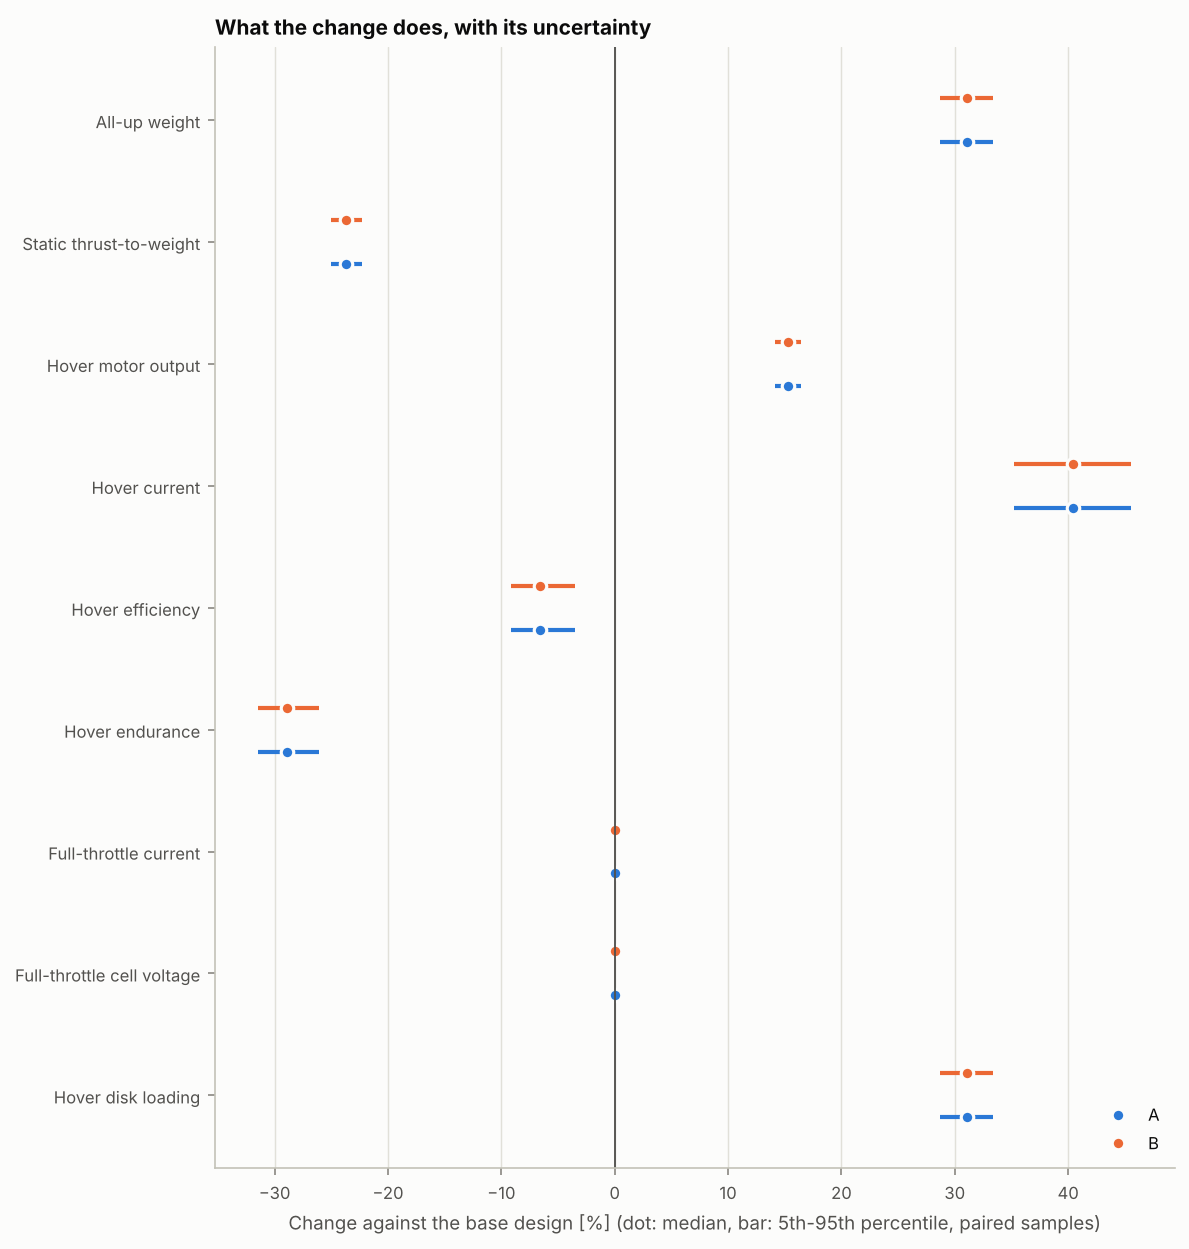
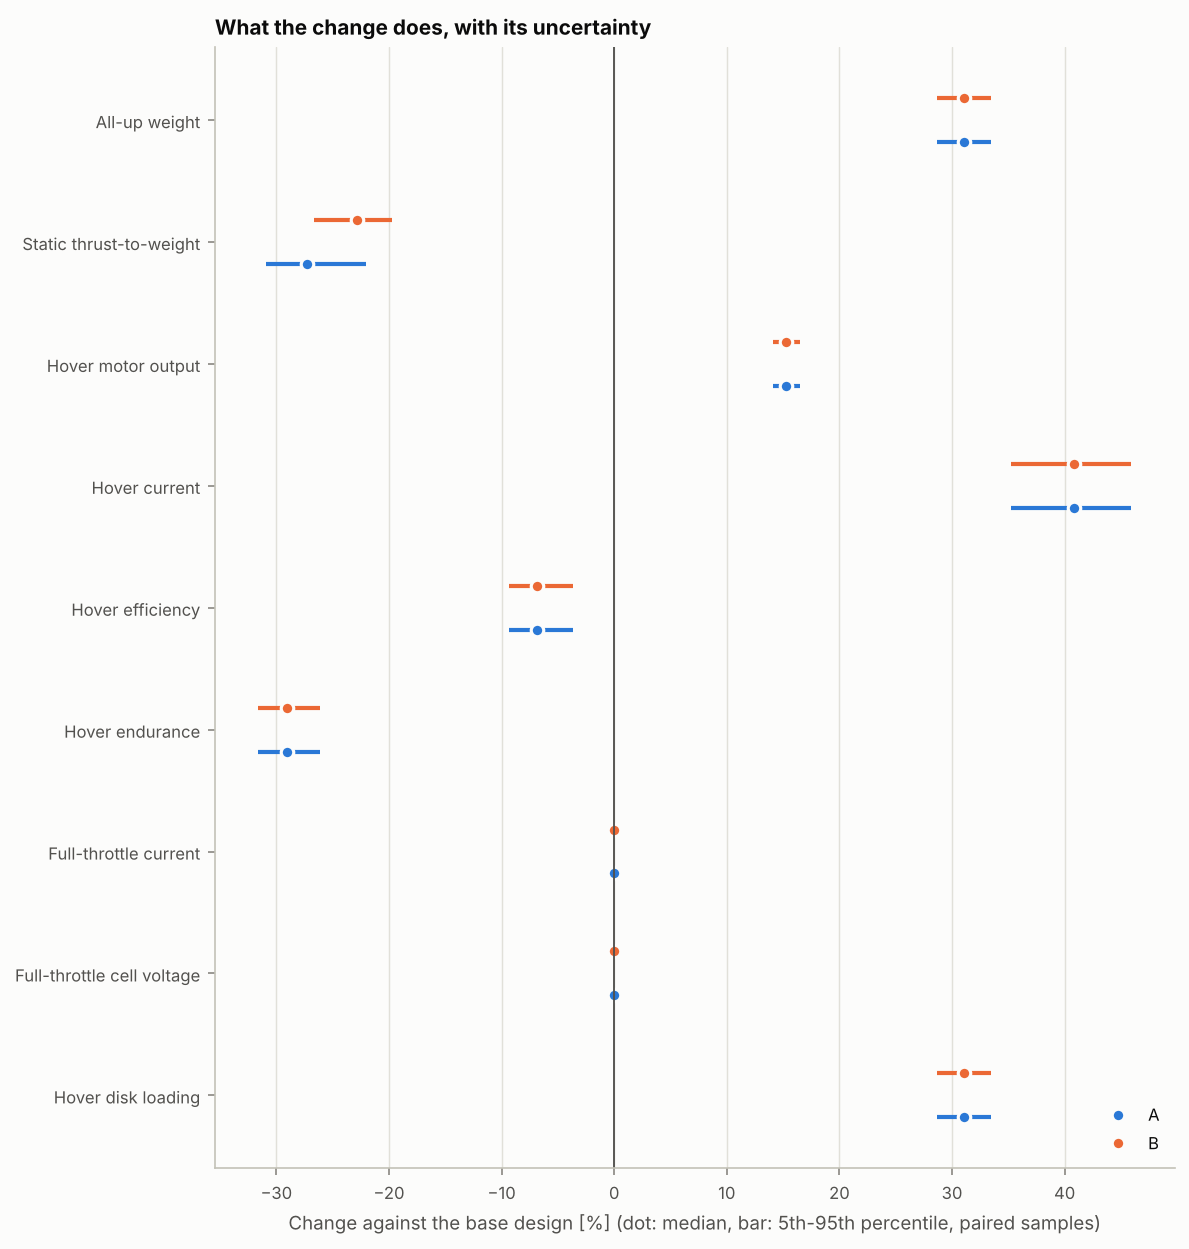
Regenerate the action-camera comparison after the stage 7 fixes
Interim: the comparison will be regenerated once the open review
findings are addressed.

Claude-Session: https://claude.ai/code/session_01Gr7RFANGNg9tgHViymiLYv

diff --git a/reports/compare-actioncam/report.md b/reports/compare-actioncam/report.md
@@ -1,87 +1,120 @@
 # 設計迭代比較報告
 
-> 由 `fpvsim compare` 自動產生。所有版本用相同的設定分析：同一個隨機種子、相同的蒙地卡羅樣本數、相同的飛控設定與飛行腳本。蒙地卡羅是**成對**的：第 i 組樣本中，各版本共有的參數取相同的值，所以版本間的差異只反映真正改變的部分。
+> 由 `fpvsim compare` 自動產生。所有版本用相同的設定分析：同一個隨機種子、相同的蒙地卡羅樣本數、同一份規格、相同的飛控設定與飛行腳本。蒙地卡羅是**成對**的：在第 i 組樣本中，各版本共有的零件（同一個零件檔、同樣數值的參數）取相同的值，所以差異是逐組直接算出來的，不受兩次獨立抽樣的雜訊干擾。但共有零件仍會影響變更的**大小**（例如槳的效率決定了多 165 g 要多耗多少電），所以差異的區間也包含它們的不確定度，見第 3 節的敏感度分析。
 
-| 代號 | 版本 | 設計檔 | 相對上一版的變更 | 輸入檔雜湊 |
+| 代號 | 版本 | 設計檔 | 相對基準的變更（演進順序） | 輸入檔雜湊 |
 |---|---|---|---|---|
-| base | 參考機：5 吋 6S freestyle（通用零件） | `data/builds/ref-5in-6s-freestyle.toml` | 基準設計 | `17c45a88524a` |
-| A | 版本 A：運動相機綁在電池前端 | `data/builds/ref-5in-6s-freestyle-actioncam-a.toml` | 加掛全尺寸運動相機（綁在電池前端），電池位置不變 | `47a12fa29d5b` |
-| B | 版本 B：相機裝在上板前端、電池後移 | `data/builds/ref-5in-6s-freestyle-actioncam-b.toml` | 加掛全尺寸運動相機（上板前端），電池後移 20 mm | `6c4423ae1aa9` |
+| base | 參考機：5 吋 6S freestyle（通用零件） | `data/builds/ref-5in-6s-freestyle.toml` | 基準設計 | `d19981aac9bd` |
+| A | 版本 A：運動相機綁在電池前端 | `data/builds/ref-5in-6s-freestyle-actioncam-a.toml` | 加掛全尺寸運動相機（綁在電池前端），電池位置不變 | `63ed371dfdc4` |
+| B | 版本 B：相機裝在上板前端、電池後移 | `data/builds/ref-5in-6s-freestyle-actioncam-b.toml` | 加掛全尺寸運動相機（上板前端），電池後移 20 mm | `2ceaf83a31c3` |
 
 | 項目 | 內容 |
 |---|---|
-| 飛控設定 | 5 吋 Acro 基準設定（`acro-5in-baseline`） |
+| 規格 | 5 吋 6S freestyle 設計規格（範例）（`freestyle-5in-6s`），所有版本相同 |
+| 飛控設定 | 5 吋 Acro 基準設定（`acro-5in-baseline`），所有版本相同 |
 | 蒙地卡羅 | 每個版本 1000 組成對樣本，隨機種子 1 |
-| 飛行腳本 | `freestyle`：綜合飛行：10 m/s 前飛、衝刺、滾轉翻、後空翻、原地自轉、收油下墜 |
-| 程式版本 | fpvsim 0.1.0，git `08e4ccd4cdf4` |
-| 產生時間 (UTC) | 2026-10-07 21:45 |
+| 飛行腳本 | `freestyle`：綜合飛行：10 m/s 前飛、滾轉翻、後空翻、原地自轉、衝刺、收油下墜 |
+| 程式版本 | fpvsim 0.1.0，git `ee299fd072af（工作區有未提交的修改）` |
+| 產生時間 (UTC) | 2026-10-07 23:44 |
 
 ## 摘要
 
-- **版本 A（版本 A：運動相機綁在電池前端）**：重量 +165 g（+31.0%），懸停續航 -28.9%（90% 區間 -31.4% 至 -26.1%），推重比 -23.7%，重心偏移 5.7 mm。新增不符合的規格：R1、R6。
-- **版本 B（版本 B：相機裝在上板前端、電池後移）**：重量 +165 g（+31.0%），懸停續航 -28.9%（90% 區間 -31.4% 至 -26.1%），推重比 -23.7%，重心偏移 1.9 mm。新增不符合的規格：R1。
-- **在加改的版本中，版本 B 符合的規格最多**（5 / 6 項）。
-- 所有加改版本都不符合 R1（全備重量 ≤ 600 g）。這條規格是為不掛運動相機的用途訂的；要掛相機，應先決定是放寬規格，還是另訂一份「掛相機」的規格，這是產品決策，不是工程問題。
-- **控制：** 用相同的基準增益，滾轉超調由基準的 17.3% 變為 版本 A 13.4%、版本 B 13.2%。轉動慣量變大，同樣的增益等於較低的迴路增益；各版本重新調參的建議見第 7 節。
+- **A（版本 A：運動相機綁在電池前端）**：全備重量 +165 g（+31.0%），懸停續航 -29.1%（90% 區間 -31.6% 至 -26.1%），推重比 -27.3%，重心偏移 5.7 mm。新增不符合的規格：R1、R6。有風險：R2。
+- **B（版本 B：相機裝在上板前端、電池後移）**：全備重量 +165 g（+31.0%），懸停續航 -29.1%（90% 區間 -31.6% 至 -26.1%），推重比 -22.9%，重心偏移 1.0 mm。新增不符合的規格：R1。有風險：R2。
+- 在變更後的版本中，**B 符合的規格最多**（4 / 6 項）。
+- 所有變更後的版本都不符合 R1（全備重量）。若這條規格是為變更前的用途訂的，應先決定是放寬它，還是為新用途另訂規格；這是產品決策，不是工程問題。
+- **控制：** 用相同的基準增益，滾轉超調在基準為 19.9%，A 11.8%、B 14.4%。轉動慣量變大，同樣的增益等於較低的迴路增益，所以超調變小。各版本自己的調參建議見第 7 節。
 
 ## 1. 設計變更
 
-**版本 A** 相對基準設計：
+**A** 相對基準設計：
 
 | 類型 | 項目 | 變更前 | 變更後 |
 |---|---|---|---|
-| 新增 | `action_camera` | — | 153 g @ (30.0, 0.0, -98.5) mm |
-| 新增 | `camera_mount` | — | 12 g @ (30.0, 0.0, -69.0) mm |
+| 新增零件 | `action_camera` | — | 153 g @ (30.0, 0.0, -98.5) mm |
+| 新增零件 | `camera_mount` | — | 12 g @ (30.0, 0.0, -69.0) mm |
 
-**版本 B** 相對基準設計：
+**B** 相對基準設計：
 
 | 類型 | 項目 | 變更前 | 變更後 |
 |---|---|---|---|
-| 新增 | `action_camera` | — | 153 g @ (40.0, 0.0, -60.5) mm |
-| 新增 | `camera_mount` | — | 12 g @ (40.0, 0.0, -31.0) mm |
+| 新增零件 | `action_camera` | — | 153 g @ (36.0, 0.0, -60.5) mm |
+| 新增零件 | `camera_mount` | — | 12 g @ (36.0, 0.0, -31.0) mm |
 | 移動 | `battery` | (0.0, 0.0, -46.0) mm | (-20.0, 0.0, -46.0) mm |
 
 ## 2. 規格符合度
 
-每格為符合機率（判定）。所有版本都對照同一份規格：5 吋 6S freestyle 設計規格（範例）。
+每格為符合機率（判定）。判定：≥ 95% 符合，50–95% 有風險，< 50% 不符合；與門檻相差不到兩倍蒙地卡羅標準誤差時標為「臨界」，換一個隨機種子可能落在另一邊。零件的安裝位置有標示不確定度時（例如電池與相機的 `position_u`），重心相關的機率已包含它。
 
 | 編號 | 需求 | base | A | B |
 |---|---|---|---|---|
 | R1 | 全備重量 | > 99.7%（符合） | < 0.3%（不符合） | < 0.3%（不符合） |
-| R2 | 靜態推重比（滿電、全油門） | 99.9% ± 0.1%（符合） | 95.0% ± 0.7%（符合） | 95.0% ± 0.7%（符合） |
+| R2 | 靜態推重比（滿電、全油門、含重心配平） | > 99.7%（符合） | 86.6% ± 1.1%（有風險） | 93.6% ± 0.8%（有風險（臨界）） |
 | R3 | 懸停油門（馬達輸出，滿電） | > 99.7%（符合） | > 99.7%（符合） | > 99.7%（符合） |
 | R4 | 懸停續航 | > 99.7%（符合） | > 99.7%（符合） | > 99.7%（符合） |
-| R5 | 全油門槳尖馬赫數 | 99.3% ± 0.3%（符合） | 99.3% ± 0.3%（符合） | 99.3% ± 0.3%（符合） |
-| R6 | 重心與推力中心的水平偏移 | > 99.7%（符合） | 3.8% ± 0.6%（不符合） | > 99.7%（符合） |
+| R5 | 全油門槳尖馬赫數 | 99.2% ± 0.3%（符合） | 99.2% ± 0.3%（符合） | 99.2% ± 0.3%（符合） |
+| R6 | 重心與推力中心的水平偏移 | 97.3% ± 0.5%（符合） | 32.0% ± 1.5%（不符合） | 99.7% ± 0.2%（符合） |
 
 ## 3. 性能對照
 
-標稱值為各版本所有參數取標稱值的結果；差異欄是**成對**樣本的差（版本減基準）的中位數與 90% 區間。
+標稱值為各版本所有參數取標稱值的結果。差異欄是**成對**樣本的差（版本減基準）：中位數與 90% 區間；百分比指標的差以百分點表示。下圖是同樣的差異換算成相對變化。
 
 | 指標 | base 標稱值 | A 標稱值 | B 標稱值 | A − base（P5 – P95） | B − base（P5 – P95） |
 |---|---|---|---|---|---|
-| 全備重量 | 532 g | 697 g | 697 g | +165 g（+154 – +176） | +165 g（+154 – +176） |
-| 重心與推力中心的水平偏移 | 1.8 mm | 5.7 mm | 1.9 mm | +3.9 mm（+2.7 – +5.0） | +0.1 mm（-1.2 – +1.2） |
-| 靜態推重比（滿電、全油門） | 13.52 | 10.32 | 10.32 | -3.21（-4.11 – -2.46） | -3.21（-4.11 – -2.46） |
-| 懸停油門（馬達輸出，滿電） | 20.2% | 23.3% | 23.3% | +3.1%（+2.7 – +3.5） | +3.1%（+2.7 – +3.5） |
-| 懸停總電流（滿電） | 3.24 A | 4.55 A | 4.55 A | +1.31 A（+0.91 – +1.86） | +1.31 A（+0.91 – +1.86） |
-| 懸停效率 | 6.54 gf/W | 6.11 gf/W | 6.11 gf/W | -0.42 gf/W（-0.63 – -0.23） | -0.42 gf/W（-0.63 – -0.23） |
-| 懸停續航 | 17.92 min | 12.73 min | 12.73 min | -5.16 min（-6.99 – -3.75） | -5.16 min（-6.99 – -3.75） |
+| 全備重量 | 532 g | 697 g | 697 g | +165 g（+153 – +175） | +165 g（+153 – +175） |
+| 重心與推力中心的水平偏移（大小；方向見第 4 節） | 1.8 mm | 5.7 mm | 1.0 mm | +3.8 mm（-1.2 – +7.5） | -0.7 mm（-3.4 – +2.2） |
+| 靜態推重比（滿電、全油門、含重心配平） | 13.20 | 9.62 | 10.18 | -3.48（-4.96 – -2.49） | -2.96（-4.25 – -2.18） |
+| 懸停油門（馬達輸出，滿電） | 20.2% | 23.3% | 23.3% | +3.1 個百分點（+2.7 – +3.5） | +3.1 個百分點（+2.7 – +3.5） |
+| 懸停總電流（滿電） | 3.24 A | 4.55 A | 4.55 A | +1.30 A（+0.89 – +1.89） | +1.30 A（+0.89 – +1.89） |
+| 懸停效率 | 6.54 gf/W | 6.11 gf/W | 6.11 gf/W | -0.44 gf/W（-0.64 – -0.24） | -0.44 gf/W（-0.64 – -0.24） |
+| 懸停續航 | 17.92 min | 12.73 min | 12.73 min | -5.15 min（-7.24 – -3.75） | -5.15 min（-7.24 – -3.75） |
 | 全油門總電流（滿電） | 161.7 A | 161.7 A | 161.7 A | +0.0 A（+0.0 – +0.0） | +0.0 A（+0.0 – +0.0） |
 | 全油門單芯電壓（滿電） | 3.49 V | 3.49 V | 3.49 V | +0.00 V（+0.00 – +0.00） | +0.00 V（+0.00 – +0.00） |
-| 懸停槳盤負載 | 98.9 Pa | 129.6 Pa | 129.6 Pa | +30.8 Pa（+28.6 – +32.7） | +30.8 Pa（+28.6 – +32.7） |
+| 懸停槳盤負載 | 98.9 Pa | 129.6 Pa | 129.6 Pa | +30.7 Pa（+28.5 – +32.6） | +30.7 Pa（+28.5 – +32.6） |
 
 ![Paired differences](deltas.png)
 
+### 差異的敏感度
+
+每次只把一個參數移動 ±1σ，看差異（版本減基準）改變多少。共有參數在兩個版本同時移動，和成對抽樣一致。列出對續航差與推重比差影響最大的參數：
+
+**A**：
+
+| 差異 | 參數 | 屬於 | 對差異的影響 (±1σ) |
+|---|---|---|---|
+| 懸停續航 | `prop.ct_scale` | 共有 | ±0.54 min |
+| 懸停續航 | `prop.cp_scale` | 共有 | ±0.48 min |
+| 懸停續航 | `motor.i0_speed_fraction` | 共有 | ±0.35 min |
+| 懸停續航 | `motor.i0_ref` | 共有 | ±0.34 min |
+| 靜態推重比（滿電、全油門、含重心配平） | `battery.offset_x` | 共有 | ±0.40 |
+| 靜態推重比（滿電、全油門、含重心配平） | `prop.ct_scale` | 共有 | ±0.36 |
+| 靜態推重比（滿電、全油門、含重心配平） | `battery.r0_cell` | 共有 | ±0.26 |
+| 靜態推重比（滿電、全油門、含重心配平） | `prop.cp_scale` | 共有 | ±0.25 |
+
+**B**：
+
+| 差異 | 參數 | 屬於 | 對差異的影響 (±1σ) |
+|---|---|---|---|
+| 懸停續航 | `prop.ct_scale` | 共有 | ±0.54 min |
+| 懸停續航 | `prop.cp_scale` | 共有 | ±0.48 min |
+| 懸停續航 | `motor.i0_speed_fraction` | 共有 | ±0.35 min |
+| 懸停續航 | `motor.i0_ref` | 共有 | ±0.34 min |
+| 靜態推重比（滿電、全油門、含重心配平） | `battery.offset_x` | 共有 | ±0.38 |
+| 靜態推重比（滿電、全油門、含重心配平） | `prop.ct_scale` | 共有 | ±0.30 |
+| 靜態推重比（滿電、全油門、含重心配平） | `battery.r0_cell` | 共有 | ±0.22 |
+| 靜態推重比（滿電、全油門、含重心配平） | `prop.cp_scale` | 共有 | ±0.21 |
+
 ## 4. 質量、重心與慣性
 
-| 版本 | 全備重量 | 重心偏移（前後 / 左右） | 重心高於槳平面 | Ixx / Iyy / Izz (g·m²) | 阻力面積 x / y / z (cm²) |
-|---|---|---|---|---|---|
-| base | 532 g | -1.8 / +0.1 mm | +0.1 mm | 1.372 / 1.564 / 2.450 | 60 / 80 / 180 |
-| A | 697 g | +5.7 / +0.1 mm | +17.2 mm | 2.141 / 2.409 / 2.662 | 93 / 96 / 205 |
-| B | 697 g | +1.9 / +0.1 mm | +8.2 mm | 1.631 / 2.121 / 2.884 | 93 / 96 / 205 |
+| 版本 | 全備重量 | 重心偏移（前 + / 右 +） | 重心高於槳平面 | Ixx / Iyy / Izz (g·m²) | Ixz (g·m²) | 阻力面積 x / y / z (cm²) |
+|---|---|---|---|---|---|---|
+| base | 532 g | -1.8 / +0.1 mm | +0.1 mm | 1.372 / 1.564 / 2.450 | +0.009 | 60 / 80 / 180 |
+| A | 697 g | +5.7 / +0.1 mm | +17.2 mm | 2.141 / 2.409 / 2.662 | +0.298 | 93 / 96 / 205 |
+| B | 697 g | +1.0 / +0.1 mm | +8.2 mm | 1.629 / 2.072 / 2.833 | +0.113 | 93 / 96 / 205 |
 
-重心高於槳平面越多，前飛時槳盤阻力造成的抬頭力矩越大，飛控需要更多修正。
+- 重心高於槳平面時，前飛的槳盤阻力作用在重心下方、指向後方，會產生**低頭**力矩，傾向加大前傾；零件自己的阻力（例如相機）作用在零件位置，裝得越高，前飛時的抬頭力矩越大。兩者都由飛控修正，且都已包含在飛行模擬中。
+- Ixz 是滾轉與偏航之間的慣性積（張量形式），不為零時兩軸的運動會互相耦合；裝在高處且偏前的零件會讓它變大。
+- 槳葉間隙檢查通過：沒有零件位於槳盤範圍內且離槳平面不到 10 mm。
 
 ![Side views](side_views.png)
 
@@ -93,54 +126,61 @@
 | A | 12.73 min | 達到保留電量 | 4.55 A | 23.3% |
 | B | 12.73 min | 達到保留電量 | 4.55 A | 23.3% |
 
+懸停續航只取決於重量與動力系統，與重心位置無關，所以重量相同的版本續航相同。
+
 ![Endurance](endurance.png)
 
 ## 6. 飛行測試對照
 
-相同的飛控設定（基準增益）、相同的飛行腳本與隨機種子。
+相同的飛控設定（基準增益）、相同的飛行腳本與隨機種子。**這是每個版本一次、所有參數取標稱值的飛行，沒有不確定度。**阻力面積、槳盤阻力係數、ESC 電流限制與振動等參數只影響這一節；它們的不確定度還沒有傳遞到飛行結果。
 
 | 項目 | base | A | B |
 |---|---|---|---|
 | 前飛段末速度 | 9.4 m/s | 9.5 m/s | 9.5 m/s |
 | 前飛段末傾角 | 26.1 ° | 24.1 ° | 24.2 ° |
-| 衝刺 2 秒內爬升高度 | 50.7 m | 41.5 m | 42.4 m |
-| 最大爬升速度 | 42.5 m/s | 34.2 m/s | 35.1 m/s |
-| 滾轉翻掉高度 | 0.00 m | 0.00 m | 0.00 m |
-| 後空翻掉高度 | 5.10 m | 7.02 m | 7.11 m |
-| 原地自轉平均角速度 | 605 deg/s | 604 deg/s | 605 deg/s |
-| 最低單芯電壓 | 3.27 V | 3.25 V | 3.23 V |
-| 最大電流 | 208 A | 213 A | 216 A |
-| 用電量 | 52 mAh | 57 mAh | 59 mAh |
-| 滾轉追蹤誤差 (RMS) | 38.5 deg/s | 41.6 deg/s | 39.1 deg/s |
-| 俯仰追蹤誤差 (RMS) | 39.8 deg/s | 45.5 deg/s | 44.1 deg/s |
-| 混控飽和時間 | 0.9% | 1.0% | 0.9% |
+| 滾轉翻掉高度 | 2.56 m | 2.74 m | 2.84 m |
+| 後空翻掉高度 | 1.77 m | 1.64 m | 1.70 m |
+| 原地自轉平均角速度 | 605 deg/s | 605 deg/s | 606 deg/s |
+| 衝刺 2 秒內爬升高度 | 55.2 m | 48.5 m | 49.6 m |
+| 最大爬升速度 | 45.8 m/s | 39.6 m/s | 40.3 m/s |
+| 最低單芯電壓 | 3.26 V | 3.31 V | 3.27 V |
+| 最大電流 | 208 A | 195 A | 203 A |
+| 用電量 | 54 mAh | 61 mAh | 62 mAh |
+| 滾轉追蹤誤差 (RMS) | 33.2 deg/s | 37.9 deg/s | 34.8 deg/s |
+| 俯仰追蹤誤差 (RMS) | 36.1 deg/s | 41.5 deg/s | 39.1 deg/s |
+| 混控飽和時間 | 0.6% | 0.7% | 0.6% |
+
+前飛段末傾角：重量變大但阻力增加較少時，維持同樣速度需要的傾角反而較小。
 
 ![Flight comparison](flight.png)
 
 ## 7. 控制響應與調參
 
-左邊是所有版本都用**基準增益**時的步階響應（取自各版本調參研究中的基準候選）；下表最後一欄是各版本自己的調參建議。
+圖中是所有版本都用**基準增益**時的步階響應，取自各版本調參研究中的基準候選。調參飛行的每一軸都有固定時間的小幅度步階（不讓混控飽和），步階的時刻已知，所以直接在每一次步階量測，不必反卷積；表中是 12 次步階的中位數，括號為四分位距。陰影是各次步階之間的標準差。
 
 ![Step responses](steps.png)
 
-| 版本 | 滾轉超調 | 俯仰超調 | 滾轉延遲 | 俯仰延遲 | 調參建議 | 建議 P-D（滾轉 / 俯仰） |
-|---|---|---|---|---|---|---|
-| base | 17.3% | 9.6% | 18 ms | 20 ms | PD×1 D×1.25 | 40-38 / 42-41 |
-| A | 13.4% | 3.9% | 22 ms | 24 ms | PD×1.3 D×1 | 52-39 / 55-43 |
-| B | 13.2% | 6.7% | 18 ms | 22 ms | PD×1 D×1 | 40-30 / 42-33 |
+| 版本 | 滾轉超調 | 俯仰超調 | 偏航超調 | 上升時間（滾 / 俯） | 未安定的軸 | 調參建議 | 建議 P-D（滾轉 / 俯仰） |
+|---|---|---|---|---|---|---|---|
+| base | 19.9%（0.6%） | 14.5%（1.3%） | 32.6%（5.0%） | 10 / 11 ms | — | PD×1.3 D×1 | 52-39 / 55-43 |
+| A | 11.8%（2.3%） | 10.7%（0.9%） | 22.9%（4.9%） | 13 / 14 ms | — | PD×1.3 D×1 | 52-39 / 55-43 |
+| B | 14.4%（3.0%） | 10.4%（1.0%） | 17.7%（4.6%） | 11 / 13 ms | — | PD×1.3 D×1 | 52-39 / 55-43 |
 
-建議值落在掃描範圍邊緣的有：版本 base（D）、版本 A（PD），下一輪應擴大掃描。
+建議值落在掃描範圍邊緣的有：base（PD）、A（PD）、B（PD），下一輪應往該方向擴大掃描。
 
 ## 8. 下一步
 
-1. 決定掛相機用途的規格（重量上限、續航要求），再用新規格重跑本比較。
-2. 以實測確認最影響結論的估計值：運動相機與相機座的質量（秤重）、相機的阻力面積（風洞或滑行測試）、槳盤阻力係數（定速平飛的傾角）。
-3. 採用的版本依第 7 節的建議重新調參後，再飛一次比較。
+1. 決定 R1 是否適用於變更後的用途，必要時另訂規格，再用新規格重跑本比較。
+2. 最影響版本差異的估計值（第 3 節敏感度）：`prop.ct_scale` — 推力台量測靜態推力，以 `fpvsim fit-prop` 辨識 Ct；`prop.cp_scale` — 推力台量測扭矩（或電流與轉速），以 `fpvsim fit-prop` 辨識 Cp；`motor.i0_speed_fraction` — 無槳空載測試，至少兩個電壓；`battery.offset_x` — 量測實際安裝位置（每次安裝）；`battery.r0_cell` — 脈衝放電測試（HPPC）量測瞬間與極化壓降。
+3. 第 6 節的飛行結果另外取決於阻力面積與槳盤阻力係數（`prop.rotor_drag_factor`），它們只能由飛行測試辨識（定速平飛的傾角對速度、滑行減速）；目前飛行結果沒有不確定度。
+4. 採用的版本依第 7 節的建議重新調參後，再飛一次比較。
 
 ## 9. 方法與限制
 
-- 成對蒙地卡羅：每個參數的亂數流由（種子，參數名稱）決定，所以共有參數在各版本的第 i 組樣本中取值相同；差異的分布只來自改變的部分與它們引起的非線性效應。
-- 阻力以零件疊加（drag buildup）估計，未計入零件之間的干擾；相機傾角對阻力的影響未計。
-- 相機視為剛性安裝；TPU 軟座的振動隔離與畫面果凍效應不在模型內。
-- 陀螺儀振動模型的振幅沿用基準設計。實際上同樣的不平衡力作用在較大的慣性上，角速度振動會較小，所以加改版本的雜訊估計偏保守。
-- 所有版本使用同一份規格與同一組飛控設定；調參研究另外為每個版本找建議增益。
+- 成對蒙地卡羅：每個參數的亂數流由（種子，零件身分）決定：零件檔的參數以零件檔的 id 為身分，其他參數以名稱、數值與不確定度為身分。所以同一個零件在各版本的第 i 組樣本中取值相同；換了零件或改了數值，就視為不同的物品，誤差彼此獨立。
+- 差異的區間包含共有參數的影響：它們不會被成對抽樣消去，因為變更的效果大小本身就取決於它們（見第 3 節敏感度）。
+- 阻力以零件疊加估計：機架的阻力作用在重心，零件的阻力作用在零件位置；零件之間的干擾與相機傾角對阻力的影響未計。
+- 相機視為剛性安裝；TPU 軟座的振動隔離與畫面果凍效應不在模型內。相機在前槳上方時對進氣的遮擋也未計。
+- 陀螺儀振動模型的振幅沿用基準設計。實際上同樣的不平衡力作用在較大的慣性上，角速度振動會較小，所以變更後版本的雜訊估計偏保守。
+- 推重比只計入維持水平所能用的推力：重心偏離推力中心時，靠近重心那側的馬達先到滿載。
+- 所有版本使用同一份規格；若版本的規格不同，`fpvsim compare` 會拒絕比較。
